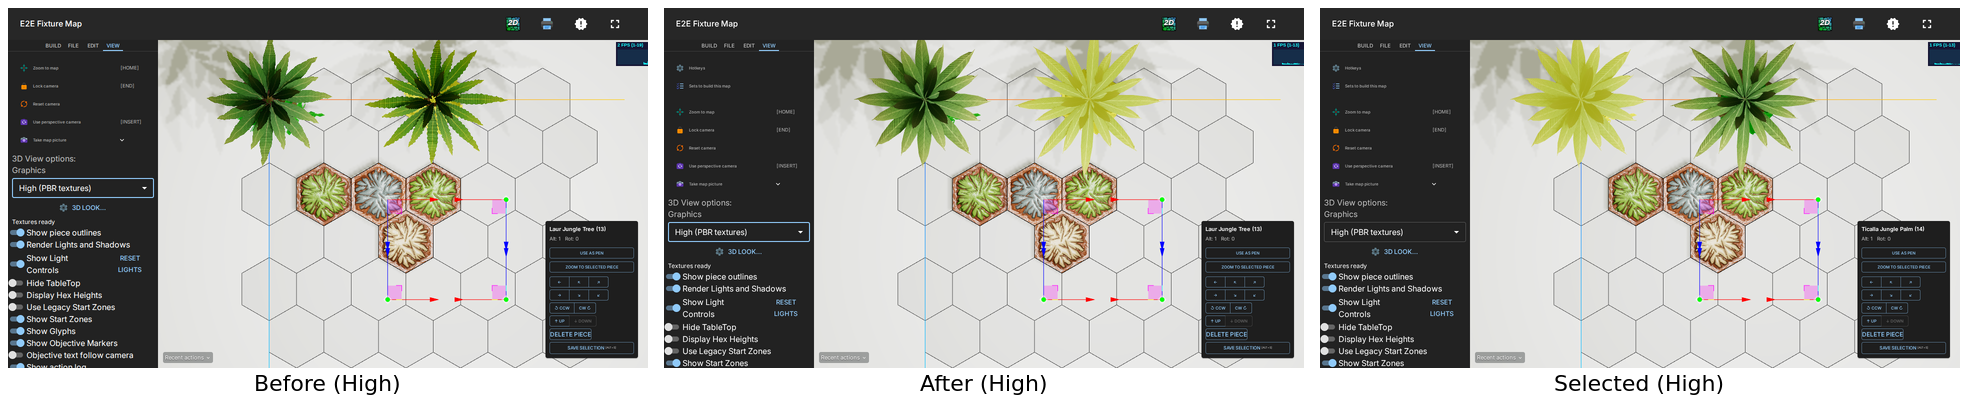
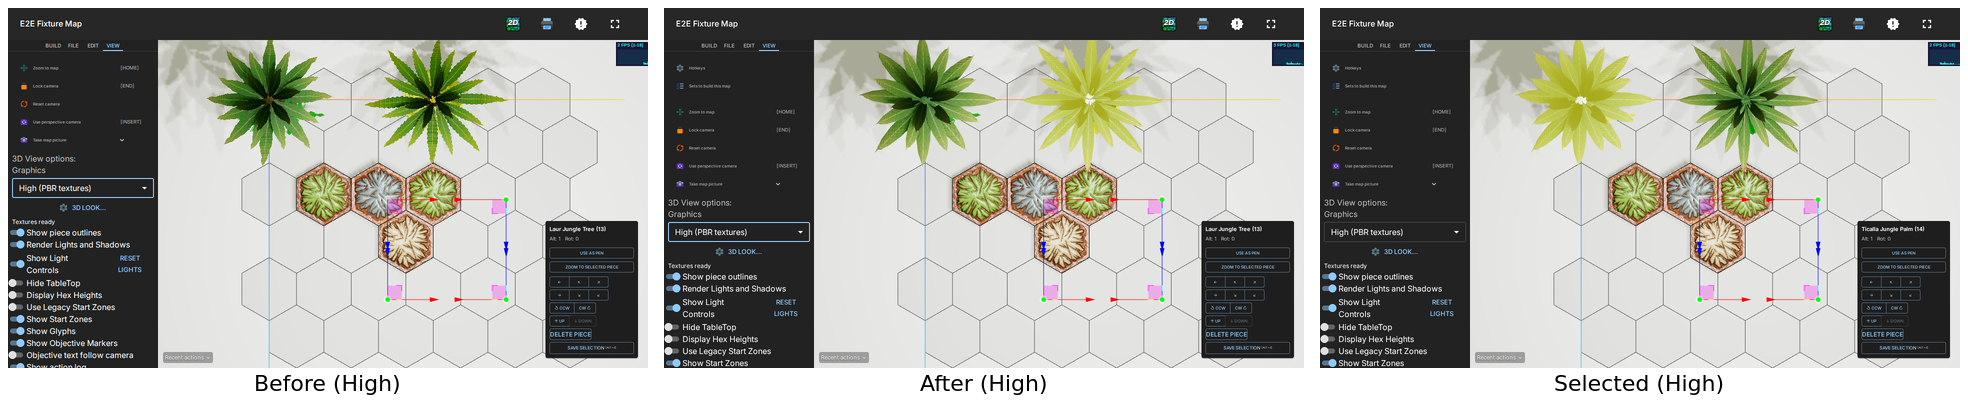
Seat procedural palm fronds on trunks

Changed region(s): [[0.7439, 0.0885, 0.9299, 0.4128], [0.4029, 0.0885, 0.5889, 0.4128]]

diff --git a/src/world/models/PalmFrondCanopy.tsx b/src/world/models/PalmFrondCanopy.tsx
@@ -11,6 +11,7 @@ import {
   Object3D,
   RGBAFormat,
   SRGBColorSpace,
+  SphereGeometry,
   UnsignedByteType,
 } from 'three'
 import type { InstancedMesh } from 'three'
@@ -23,15 +24,18 @@ import {
   PALM_FROND_BASE_DROOP,
   PALM_FROND_BASE_WIDTH,
   PALM_FROND_BLADE_WIDTH,
+  PALM_TRUNK_TOP_Y,
   type PalmStyle,
   applyPalmFrondInstances,
   buildPalmFrondGeometry,
   buildPalmFrondInstances,
   getPalmFrondRings,
+  shouldRenderPalmCrownHub,
 } from './palmFronds'
 
 const alphaTest = 0.25
 const undergrowthCount = 6
+const palmCrownHubRadius = 0.21
 const textureCache = new Map<
   PalmStyle,
   {
@@ -46,14 +50,17 @@ let undergrowthGeometry: BufferGeometry | undefined
 const frondMaterialCache = new Map<string, MeshStandardMaterial>()
 const undergrowthMaterialCache = new Map<string, MeshStandardMaterial>()
 const barkMaterialCache = new Map<string, MeshStandardMaterial>()
+const crownHubMaterialCache = new Map<string, MeshStandardMaterial>()
 const depthMaterialCache = new Map<string, MeshDepthMaterial>()
 const distanceMaterialCache = new Map<string, MeshDistanceMaterial>()
+let crownHubGeometry: SphereGeometry | undefined
 
 export function clearPalmCanopyCache() {
   for (const material of [
     ...frondMaterialCache.values(),
     ...undergrowthMaterialCache.values(),
     ...barkMaterialCache.values(),
+    ...crownHubMaterialCache.values(),
     ...depthMaterialCache.values(),
     ...distanceMaterialCache.values(),
   ]) {
@@ -69,14 +76,17 @@ export function clearPalmCanopyCache() {
     geometry.dispose()
   }
   undergrowthGeometry?.dispose()
+  crownHubGeometry?.dispose()
   textureCache.clear()
   frondGeometryCache.clear()
   frondMaterialCache.clear()
   undergrowthMaterialCache.clear()
   barkMaterialCache.clear()
+  crownHubMaterialCache.clear()
   depthMaterialCache.clear()
   distanceMaterialCache.clear()
   undergrowthGeometry = undefined
+  crownHubGeometry = undefined
 }
 
 function makeCanvas(width: number, height: number) {
@@ -355,6 +365,30 @@ function getBarkMaterial(
   return material
 }
 
+function getCrownHubGeometry() {
+  if (!crownHubGeometry) {
+    crownHubGeometry = new SphereGeometry(palmCrownHubRadius, 16, 8)
+  }
+  return crownHubGeometry
+}
+
+function getCrownHubMaterial(isHighlighted: boolean, opacity: number) {
+  const key = `${isHighlighted}:${opacity}`
+  let material = crownHubMaterialCache.get(key)
+  if (!material) {
+    material = new MeshStandardMaterial({
+      ...getPalmHighlightMaterialOptions(isHighlighted),
+      color: isHighlighted ? 'white' : '#365f29',
+      roughness: 0.86,
+      transparent: opacity < 1,
+      opacity,
+      depthWrite: opacity === 1,
+    })
+    crownHubMaterialCache.set(key, material)
+  }
+  return material
+}
+
 function getFrondGeometry(style: PalmStyle, tier: GraphicsTier) {
   const key = `${style}:${tier}`
   let geometry = frondGeometryCache.get(key)
@@ -580,6 +614,17 @@ export default function PalmFrondCanopy({
           isHighlighted={isHighlighted}
           uid={uid}
           castShadow={castShadow}
+        />
+      )}
+      {shouldRenderPalmCrownHub(tier) && (
+        <mesh
+          geometry={getCrownHubGeometry()}
+          material={getCrownHubMaterial(isHighlighted, previewOpacity)}
+          position={[0, PALM_TRUNK_TOP_Y[style] - 0.02, 0]}
+          scale={[1, 0.6, 1]}
+          castShadow={castShadow}
+          receiveShadow={castShadow}
+          dispose={null}
         />
       )}
       <PalmUndergrowth

diff --git a/src/world/models/palmFronds.test.ts b/src/world/models/palmFronds.test.ts
@@ -13,11 +13,14 @@ import {
   MODEL_HIGHLIGHT_EMISSIVE_INTENSITY,
 } from './texturedModelMaterial'
 import {
+  PALM_CANOPY_TRUNK_OVERLAP,
   PALM_FROND_FOLD,
+  PALM_TRUNK_TOP_Y,
   applyPalmFrondInstances,
   buildPalmFrondGeometry,
   buildPalmFrondInstances,
   getPalmFrondRings,
+  shouldRenderPalmCrownHub,
 } from './palmFronds'
 
 describe('palm frond generation', () => {
@@ -45,6 +48,29 @@ describe('palm frond generation', () => {
         ),
       ).toBe(22)
     }
+  })
+
+  it('seats the lowest ring just below each trunk top', () => {
+    for (const style of ['laur', 'ticalla'] as const) {
+      for (const tier of ['medium', 'high'] as const) {
+        const rings = getPalmFrondRings(style, tier)
+        const lowestBaseY = Math.min(...rings.map((ring) => ring.baseY))
+        const trunkTopY = PALM_TRUNK_TOP_Y[style]
+
+        expect(lowestBaseY).toBeCloseTo(
+          trunkTopY - PALM_CANOPY_TRUNK_OVERLAP,
+          6,
+        )
+        expect(lowestBaseY).toBeGreaterThanOrEqual(trunkTopY - 0.1)
+        expect(lowestBaseY).toBeLessThanOrEqual(trunkTopY + 0.1)
+      }
+    }
+  })
+
+  it('renders the crown hub only for procedural graphics tiers', () => {
+    expect(shouldRenderPalmCrownHub('low')).toBe(false)
+    expect(shouldRenderPalmCrownHub('medium')).toBe(true)
+    expect(shouldRenderPalmCrownHub('high')).toBe(true)
   })
 
   it('builds a segmented frond with the configured triangle count', () => {

diff --git a/src/world/models/palmFronds.ts b/src/world/models/palmFronds.ts
@@ -27,6 +27,13 @@ export const PALM_FROND_BLADE_WIDTH: Record<PalmStyle, number> = {
   ticalla: 3,
 }
 export const PALM_FROND_FOLD = 0.08
+// Measured from the Palm_Trunk POSITION accessor in public/laur-jungle.glb.
+// Both styles render this geometry directly beside their procedural fronds.
+export const PALM_TRUNK_TOP_Y: Record<PalmStyle, number> = {
+  laur: 4.375,
+  ticalla: 4.375,
+}
+export const PALM_CANOPY_TRUNK_OVERLAP = 0.05
 
 export function applyPalmFrondInstances(
   mesh: InstancedMesh,
@@ -181,7 +188,18 @@ export function getPalmFrondRings(
   tier: GraphicsTier,
 ): PalmFrondRing[] {
   if (tier === 'low') return []
-  return ringProfiles[style][tier]
+  const rings = ringProfiles[style][tier]
+  const lowestBaseY = Math.min(...rings.map((ring) => ring.baseY))
+  const baseOffset =
+    PALM_TRUNK_TOP_Y[style] - PALM_CANOPY_TRUNK_OVERLAP - lowestBaseY
+  return rings.map((ring) => ({
+    ...ring,
+    baseY: ring.baseY + baseOffset,
+  }))
+}
+
+export function shouldRenderPalmCrownHub(tier: GraphicsTier) {
+  return tier !== 'low'
 }
 
 function seedNumber(seed: string): number {

diff --git a/e2e/graphics-tier.spec.ts b/e2e/graphics-tier.spec.ts
@@ -832,6 +832,9 @@ test('jungle palms use tiered cutout fronds and stay selectable with transparent
       )
       await waitForAppReady(page)
       await saveEvidence(page, `jungle-palms-${tier.evidenceName}-side`)
+      if (process.env.E2E_EVIDENCE === '1' && tier.evidenceName === 'high') {
+        await saveEvidence(page, 'palm-frond-body-side')
+      }
       await page.evaluate(
         async ({ position, target }) =>
           window.__TEST__?.setCamera(position, target),
